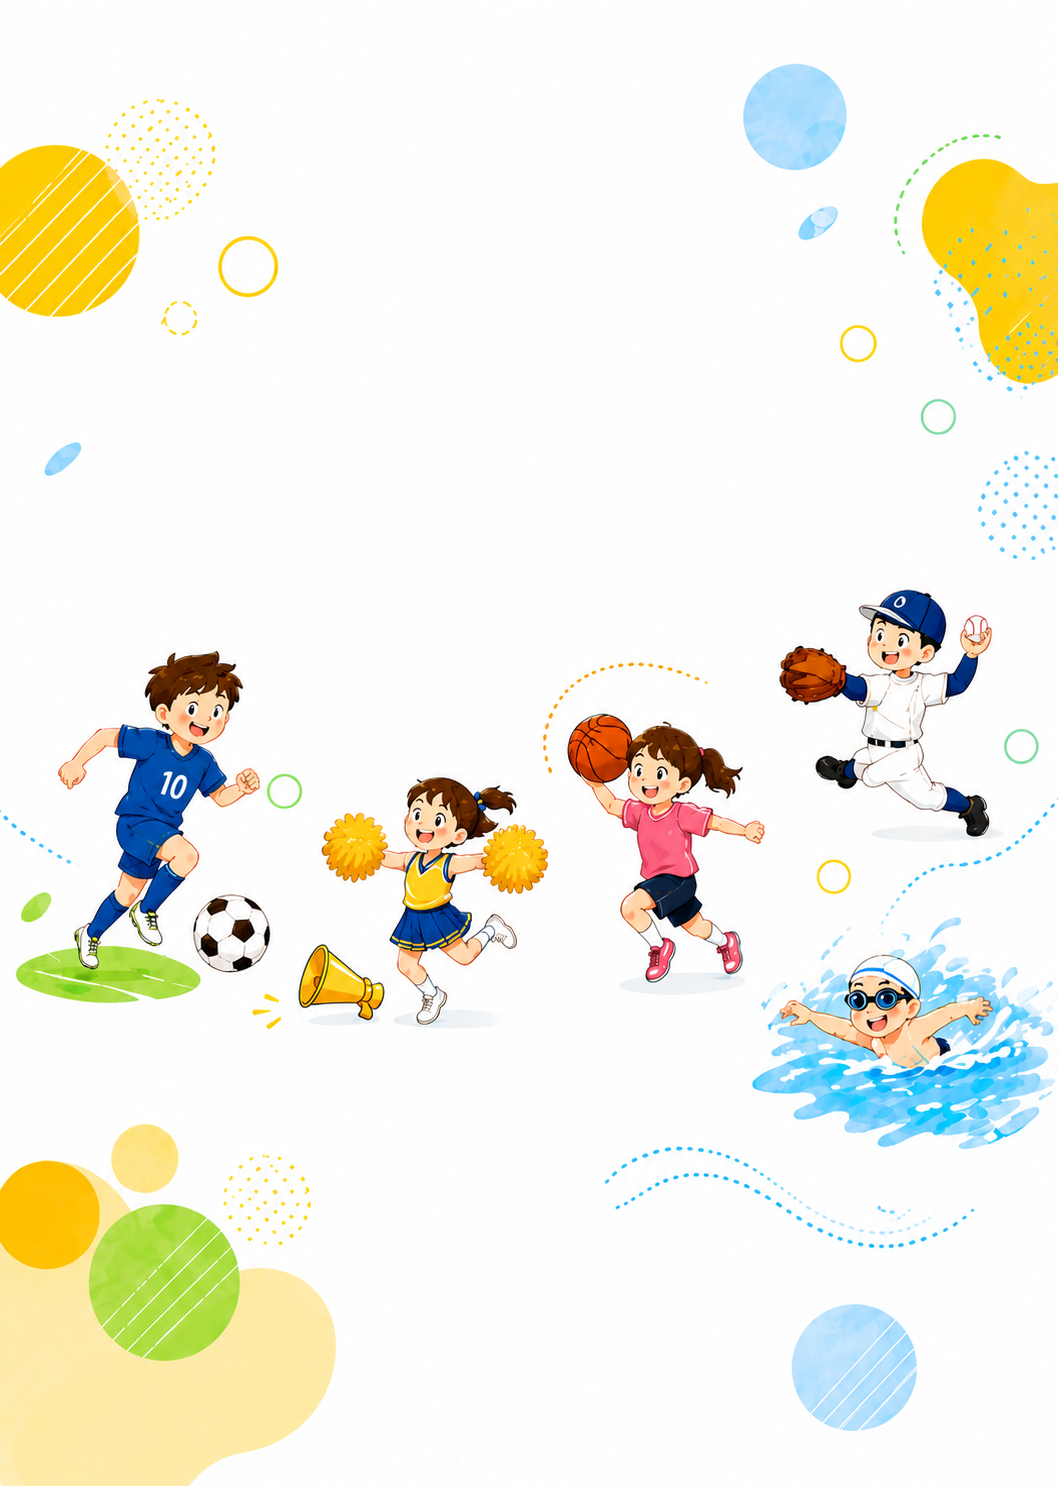
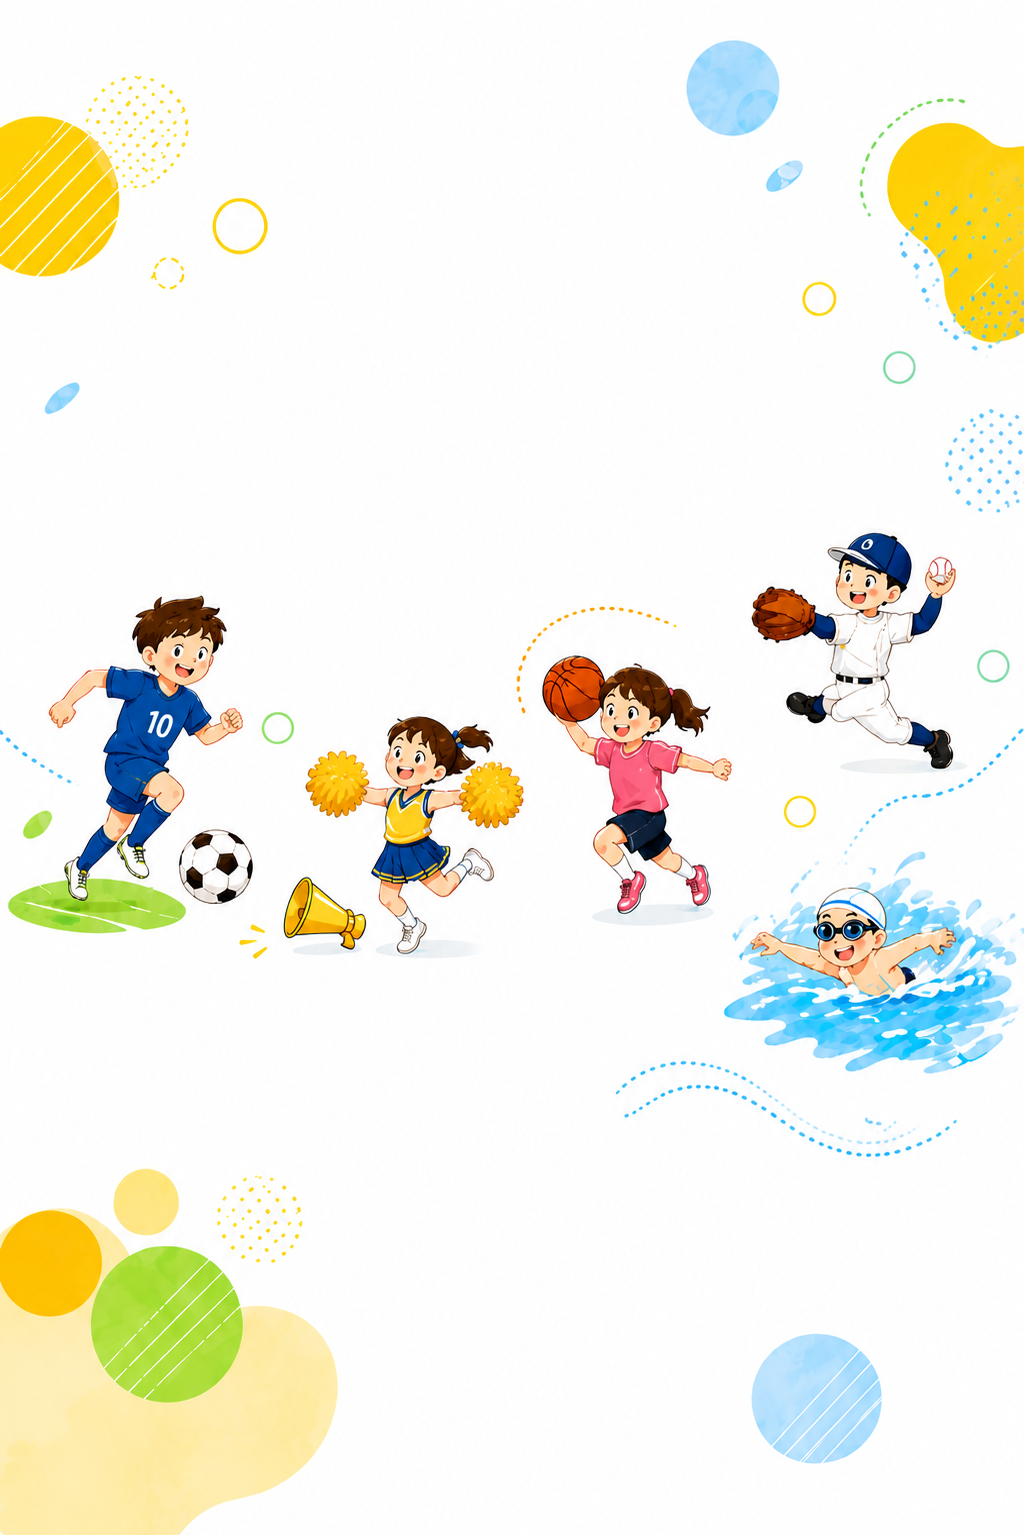
Update hero_sp.png and index.html

diff --git a/index.html b/index.html
@@ -866,7 +866,7 @@ footer {
   .hero-sp-text {
     display: block;
     position: absolute;
-    top: 3%;
+    top: 25%;
     left: 0; right: 0;
     text-align: center;
     padding: 0 16px;
@@ -884,7 +884,7 @@ footer {
   .hero-sp-bottom {
     display: block;
     position: absolute;
-    bottom: 5%;
+    bottom: 13%;
     left: 0; right: 0;
     text-align: center;
     padding: 0 16px;